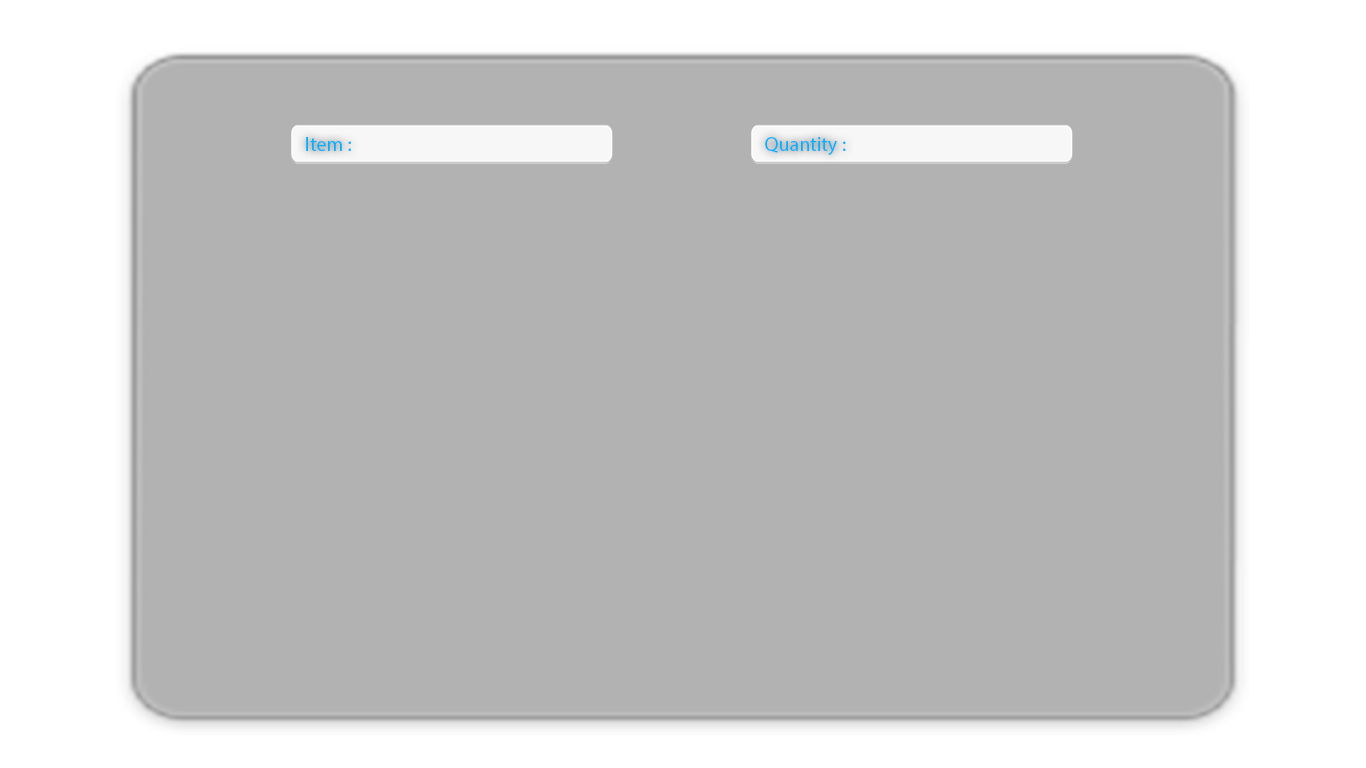
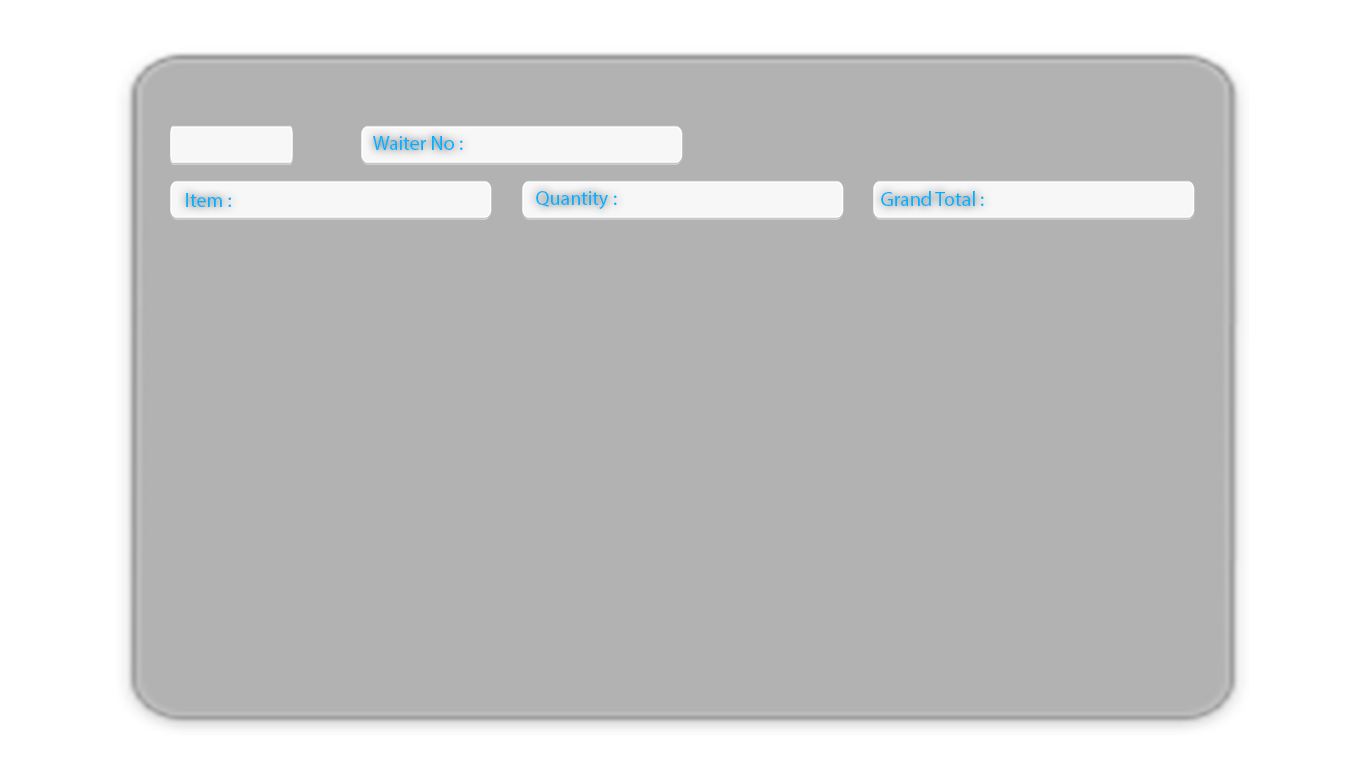
Akash

Changed region(s): [[0.123, 0.1562, 0.8917, 0.3125]]

diff --git a/Final/src/view/invoice.java b/Final/src/view/invoice.java
@@ -13,6 +13,8 @@ import java.sql.DriverManager;
 import java.sql.ResultSet;
 import java.sql.Statement;
 import java.util.Vector;
+import java.util.logging.Level;
+import java.util.logging.Logger;
 import javax.swing.DefaultComboBoxModel;
 import javax.swing.table.DefaultTableModel;
 import model.invoice_quaries;
@@ -46,7 +48,10 @@ public class invoice extends javax.swing.JFrame {
         jTable1 = new javax.swing.JTable();
         txt_qty = new javax.swing.JTextField();
         txt_waiterno = new javax.swing.JTextField();
-        jLabel1 = new javax.swing.JLabel();
+        com_invoicewaiter = new javax.swing.JComboBox();
+        txt_grandTotal = new javax.swing.JTextField();
+        jButton1 = new javax.swing.JButton();
+        jLabel2 = new javax.swing.JLabel();
 
         setDefaultCloseOperation(javax.swing.WindowConstants.EXIT_ON_CLOSE);
         setUndecorated(true);
@@ -64,11 +69,12 @@ public class invoice extends javax.swing.JFrame {
                 txt_itemKeyTyped(evt);
             }
         });
-        txt_item.setBounds(240, 130, 240, 30);
+        txt_item.setBounds(240, 190, 240, 30);
         jLayeredPane1.add(txt_item, javax.swing.JLayeredPane.DEFAULT_LAYER);
 
         combo_item.setBackground(new java.awt.Color(246, 246, 246));
         combo_item.setEditable(true);
+        combo_item.setBorder(javax.swing.BorderFactory.createEmptyBorder(1, 1, 1, 1));
         combo_item.addMouseListener(new java.awt.event.MouseAdapter() {
             public void mouseClicked(java.awt.event.MouseEvent evt) {
                 combo_itemMouseClicked(evt);
@@ -79,7 +85,7 @@ public class invoice extends javax.swing.JFrame {
                 combo_itemActionPerformed(evt);
             }
         });
-        combo_item.setBounds(240, 130, 240, 30);
+        combo_item.setBounds(240, 190, 240, 30);
         jLayeredPane1.add(combo_item, javax.swing.JLayeredPane.DEFAULT_LAYER);
 
         jTable1.setBackground(new java.awt.Color(246, 246, 246));
@@ -89,12 +95,12 @@ public class invoice extends javax.swing.JFrame {
 
             },
             new String [] {
-                "Item ID", "Item", "Quantity", "Price", "Total"
+                "No", "Item ID", "Item", "Quantity", "Price", "Total"
             }
         ));
         jScrollPane1.setViewportView(jTable1);
 
-        jScrollPane1.setBounds(220, 210, 830, 450);
+        jScrollPane1.setBounds(260, 250, 830, 450);
         jLayeredPane1.add(jScrollPane1, javax.swing.JLayeredPane.DEFAULT_LAYER);
 
         txt_qty.setBackground(new java.awt.Color(246, 246, 246));
@@ -104,22 +110,60 @@ public class invoice extends javax.swing.JFrame {
                 txt_qtyKeyPressed(evt);
             }
         });
-        txt_qty.setBounds(980, 130, 210, 30);
+        txt_qty.setBounds(620, 190, 210, 30);
         jLayeredPane1.add(txt_qty, javax.swing.JLayeredPane.DEFAULT_LAYER);
 
         txt_waiterno.setBackground(new java.awt.Color(246, 246, 246));
         txt_waiterno.setBorder(javax.swing.BorderFactory.createEmptyBorder(1, 1, 1, 1));
+        txt_waiterno.addActionListener(new java.awt.event.ActionListener() {
+            public void actionPerformed(java.awt.event.ActionEvent evt) {
+                txt_waiternoActionPerformed(evt);
+            }
+        });
         txt_waiterno.addKeyListener(new java.awt.event.KeyAdapter() {
             public void keyPressed(java.awt.event.KeyEvent evt) {
                 txt_waiternoKeyPressed(evt);
             }
+            public void keyReleased(java.awt.event.KeyEvent evt) {
+                txt_waiternoKeyReleased(evt);
+            }
         });
-        txt_waiterno.setBounds(630, 130, 210, 30);
+        txt_waiterno.setBounds(470, 130, 200, 30);
         jLayeredPane1.add(txt_waiterno, javax.swing.JLayeredPane.DEFAULT_LAYER);
 
-        jLabel1.setIcon(new javax.swing.ImageIcon(getClass().getResource("/images/invoice.png"))); // NOI18N
-        jLabel1.setBounds(0, 0, 1366, 768);
-        jLayeredPane1.add(jLabel1, javax.swing.JLayeredPane.DEFAULT_LAYER);
+        com_invoicewaiter.setBackground(new java.awt.Color(246, 246, 246));
+        com_invoicewaiter.setEditable(true);
+        com_invoicewaiter.setBorder(javax.swing.BorderFactory.createEmptyBorder(1, 1, 1, 1));
+        com_invoicewaiter.addActionListener(new java.awt.event.ActionListener() {
+            public void actionPerformed(java.awt.event.ActionEvent evt) {
+                com_invoicewaiterActionPerformed(evt);
+            }
+        });
+        com_invoicewaiter.addKeyListener(new java.awt.event.KeyAdapter() {
+            public void keyReleased(java.awt.event.KeyEvent evt) {
+                com_invoicewaiterKeyReleased(evt);
+            }
+        });
+        com_invoicewaiter.setBounds(470, 130, 200, 30);
+        jLayeredPane1.add(com_invoicewaiter, javax.swing.JLayeredPane.DEFAULT_LAYER);
+
+        txt_grandTotal.setBackground(new java.awt.Color(246, 246, 246));
+        txt_grandTotal.setBorder(javax.swing.BorderFactory.createEmptyBorder(1, 1, 1, 1));
+        txt_grandTotal.setBounds(1000, 190, 180, 30);
+        jLayeredPane1.add(txt_grandTotal, javax.swing.JLayeredPane.DEFAULT_LAYER);
+
+        jButton1.setText("Genarate");
+        jButton1.addActionListener(new java.awt.event.ActionListener() {
+            public void actionPerformed(java.awt.event.ActionEvent evt) {
+                jButton1ActionPerformed(evt);
+            }
+        });
+        jButton1.setBounds(1103, 540, 80, 40);
+        jLayeredPane1.add(jButton1, javax.swing.JLayeredPane.DEFAULT_LAYER);
+
+        jLabel2.setIcon(new javax.swing.ImageIcon(getClass().getResource("/images/invoice.png"))); // NOI18N
+        jLabel2.setBounds(0, 0, 1366, 770);
+        jLayeredPane1.add(jLabel2, javax.swing.JLayeredPane.DEFAULT_LAYER);
 
         javax.swing.GroupLayout layout = new javax.swing.GroupLayout(getContentPane());
         getContentPane().setLayout(layout);
@@ -164,13 +208,13 @@ public class invoice extends javax.swing.JFrame {
 //        } catch (Exception e) {
 //            e.printStackTrace();
 //        }
-        
+
         try {
-            String s = txt_item.getText();
-           ResultSet rs =  DBConnection.setConnection().createStatement().executeQuery("SELECT * FROM product WHERE pro_name LIKE '" + txt_item.getText() + "%'");
+            String field = txt_item.getText();
+            ResultSet rs = invoice_quaries.invoiceSeach(field);
             Vector v = new Vector();
             while (rs.next()) {
-                v.add(rs.getString(1));
+                v.add(rs.getString(2));
             }
             combo_item.setModel(new DefaultComboBoxModel(v));
             combo_item.showPopup();
@@ -179,7 +223,7 @@ public class invoice extends javax.swing.JFrame {
                 combo_item.showPopup();
 
             }
-           
+
 
 
         } catch (Exception e) {
@@ -192,7 +236,6 @@ public class invoice extends javax.swing.JFrame {
     }//GEN-LAST:event_txt_itemKeyTyped
 
     private void combo_itemMouseClicked(java.awt.event.MouseEvent evt) {//GEN-FIRST:event_combo_itemMouseClicked
-
     }//GEN-LAST:event_combo_itemMouseClicked
 
     private void combo_itemActionPerformed(java.awt.event.ActionEvent evt) {//GEN-FIRST:event_combo_itemActionPerformed
@@ -201,30 +244,88 @@ public class invoice extends javax.swing.JFrame {
 
     private void txt_qtyKeyPressed(java.awt.event.KeyEvent evt) {//GEN-FIRST:event_txt_qtyKeyPressed
         DefaultTableModel dt = (DefaultTableModel) jTable1.getModel();
+        int i = dt.getRowCount();
+        i++;
         focus.textFieldsNext(evt, null, combo_item);
         if (evt.getKeyCode() == evt.VK_ENTER) {
 
             try {
                 String field1 = txt_item.getText();
                 ResultSet rs = invoice_quaries.invoiceTable(field1);
+                Vector v = new Vector();
                 while (rs.next()) {
-
-                    Vector v = new Vector();
+                    v.add(i);
                     v.add(rs.getString(1));
                     v.add(rs.getString(2));
                     v.add(txt_qty.getText());
-                    v.add(rs.getString(4));
+                    v.add(rs.getString(3));
+                    //-----------------------calculating total------------------
+                    int getQty = Integer.parseInt(txt_qty.getText());
+                    double price = Double.parseDouble(rs.getString(3));
+                    double total = getQty * price;
+                    //----------------------------------------------------------
+                    v.add(total);
                     dt.addRow(v);
                 }
             } catch (Exception e) {
                 e.printStackTrace();
             }
+
+            double tot = 0;
+            for (int a = 0; a < dt.getRowCount(); a++) {
+                if (!(dt.getValueAt(a, 5).equals(null))) {
+                    double cellTot = Double.parseDouble(dt.getValueAt(a, 5).toString());
+                    tot += cellTot;
+                    txt_grandTotal.setText(tot + "");
+                }
+            }
         }
     }//GEN-LAST:event_txt_qtyKeyPressed
 
     private void txt_waiternoKeyPressed(java.awt.event.KeyEvent evt) {//GEN-FIRST:event_txt_waiternoKeyPressed
-        // TODO add your handling code here:
     }//GEN-LAST:event_txt_waiternoKeyPressed
+
+    private void txt_waiternoActionPerformed(java.awt.event.ActionEvent evt) {//GEN-FIRST:event_txt_waiternoActionPerformed
+        txt_waiterno.setText(com_invoicewaiter.getSelectedItem().toString());
+    }//GEN-LAST:event_txt_waiternoActionPerformed
+
+    private void txt_waiternoKeyReleased(java.awt.event.KeyEvent evt) {//GEN-FIRST:event_txt_waiternoKeyReleased
+        try {
+            String field2 = txt_waiterno.getText();
+            ResultSet rs = invoice_quaries.invoiceWaiter(field2);
+            Vector v = new Vector();
+            while (rs.next()) {
+
+                v.add(rs.getString(1));
+            }
+            com_invoicewaiter.setModel(new DefaultComboBoxModel(v));
+            com_invoicewaiter.showPopup();
+            if (evt.getKeyCode() == KeyEvent.VK_DOWN) {
+                com_invoicewaiter.grabFocus();
+                com_invoicewaiter.showPopup();
+
+            }
+        } catch (Exception e) {
+            e.printStackTrace();
+        }
+    }//GEN-LAST:event_txt_waiternoKeyReleased
+
+    private void com_invoicewaiterKeyReleased(java.awt.event.KeyEvent evt) {//GEN-FIRST:event_com_invoicewaiterKeyReleased
+
+    }//GEN-LAST:event_com_invoicewaiterKeyReleased
+
+    private void com_invoicewaiterActionPerformed(java.awt.event.ActionEvent evt) {//GEN-FIRST:event_com_invoicewaiterActionPerformed
+        txt_waiterno.setText("W"+com_invoicewaiter.getSelectedItem().toString());
+    }//GEN-LAST:event_com_invoicewaiterActionPerformed
+
+    private void jButton1ActionPerformed(java.awt.event.ActionEvent evt) {//GEN-FIRST:event_jButton1ActionPerformed
+        String field3[] = {"2", txt_waiterno.getText(), txt_grandTotal.getText(), " 3 "};
+        try {
+            invoice_quaries.invoiceaddDb(field3);
+        } catch (Exception ex) {
+            ex.printStackTrace();
+        }
+    }//GEN-LAST:event_jButton1ActionPerformed
 
     /**
      * @param args the command line arguments
@@ -257,19 +358,22 @@ public class invoice extends javax.swing.JFrame {
         java.awt.EventQueue.invokeLater(new Runnable() {
             public void run() {
 //                new invoice().setVisible(true);
-                invoice  in=new invoice();
+                invoice in = new invoice();
                 AWTUtilities.setWindowOpaque(in, false);
                 in.setVisible(true);
             }
         });
-        
+
     }
     // Variables declaration - do not modify//GEN-BEGIN:variables
+    private javax.swing.JComboBox com_invoicewaiter;
     private javax.swing.JComboBox combo_item;
-    private javax.swing.JLabel jLabel1;
+    private javax.swing.JButton jButton1;
+    private javax.swing.JLabel jLabel2;
     private javax.swing.JLayeredPane jLayeredPane1;
     private javax.swing.JScrollPane jScrollPane1;
     private javax.swing.JTable jTable1;
+    private javax.swing.JTextField txt_grandTotal;
     private javax.swing.JTextField txt_item;
     private javax.swing.JTextField txt_qty;
     private javax.swing.JTextField txt_waiterno;

diff --git a/Final/src/model/invoice_quaries.java b/Final/src/model/invoice_quaries.java
@@ -6,6 +6,8 @@ package model;
 
 import control.DBConnection;
 import java.sql.ResultSet;
+import java.sql.Statement;
+import javax.swing.JOptionPane;
 
 /**
  *
@@ -14,12 +16,22 @@ import java.sql.ResultSet;
 public class invoice_quaries {
 
     public static ResultSet invoiceSeach(String field) throws Exception {
-        ResultSet rs = DBConnection.setConnection().createStatement().executeQuery("SELECT * FROM product WHERE pro_name LIKE '" + field + "%' ");
+        ResultSet rs = DBConnection.setConnection().createStatement().executeQuery("SELECT * FROM product WHERE pro_name LIKE '" + field + "%'");
         return rs;
     }
-    
-    public static ResultSet invoiceTable(String field1)throws Exception{
-        ResultSet rs = DBConnection.setConnection().createStatement().executeQuery("SELECT * FROM product WHERE pro_name='"+ field1+"'");
+
+    public static ResultSet invoiceTable(String field1) throws Exception {
+        ResultSet rs = DBConnection.setConnection().createStatement().executeQuery("SELECT * FROM product WHERE pro_name='" + field1 + "'");
         return rs;
+    }
+
+    public static ResultSet invoiceWaiter(String field2) throws Exception {
+        ResultSet rs = DBConnection.setConnection().createStatement().executeQuery("SELECT * FROM waiter WHERE waiter_id LIKE '" + field2 + "%'");
+        return rs;
+    }
+
+    public static void invoiceaddDb(String field3[]) throws Exception {
+        DBConnection.setConnection().createStatement().executeUpdate("INSERT INTO bill VALUES ('" + field3[0] + "','" + field3[1] + "','" + field3[2] + "','" + field3[2] + "')");
+        JOptionPane.showMessageDialog(null, "done");
     }
 }

diff --git a/Final/src/control/DBConnection.java b/Final/src/control/DBConnection.java
@@ -14,7 +14,7 @@ import java.sql.DriverManager;
 public class DBConnection {
     public static Connection setConnection()throws Exception{
         Class.forName("com.mysql.jdbc.Driver");
-        Connection c=DriverManager.getConnection("jdbc:mysql://localhost:3306/neelagiri","root","123");
+        Connection c=DriverManager.getConnection("jdbc:mysql://localhost:3306/final","root","123");
         return c;
     }
 }
